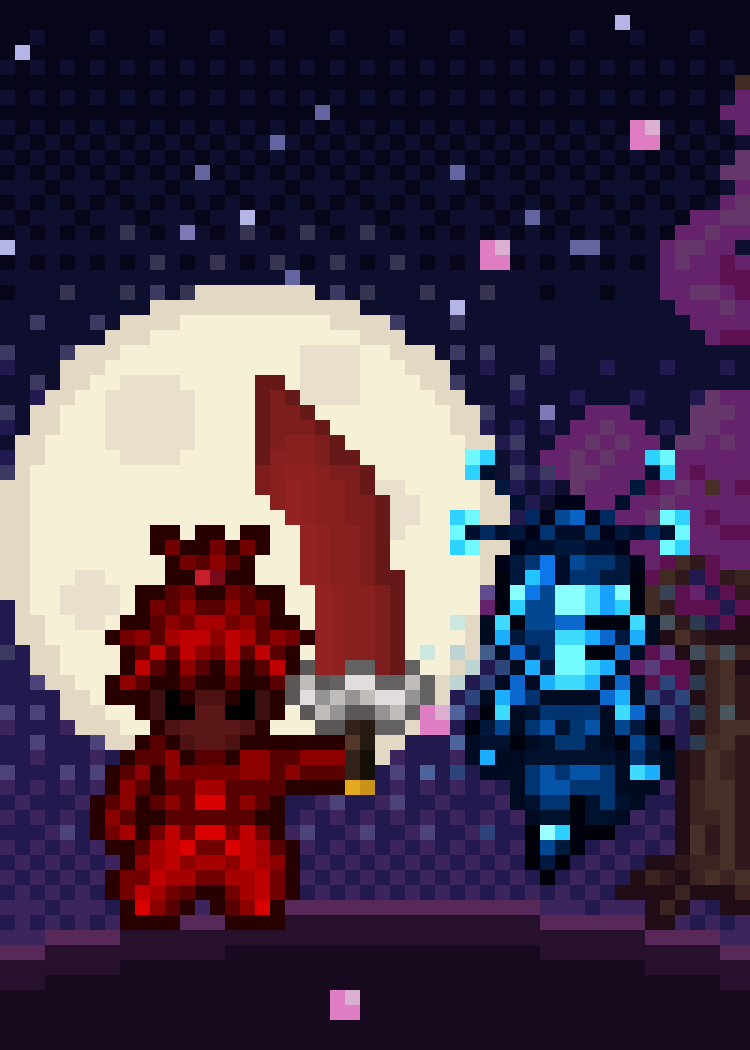
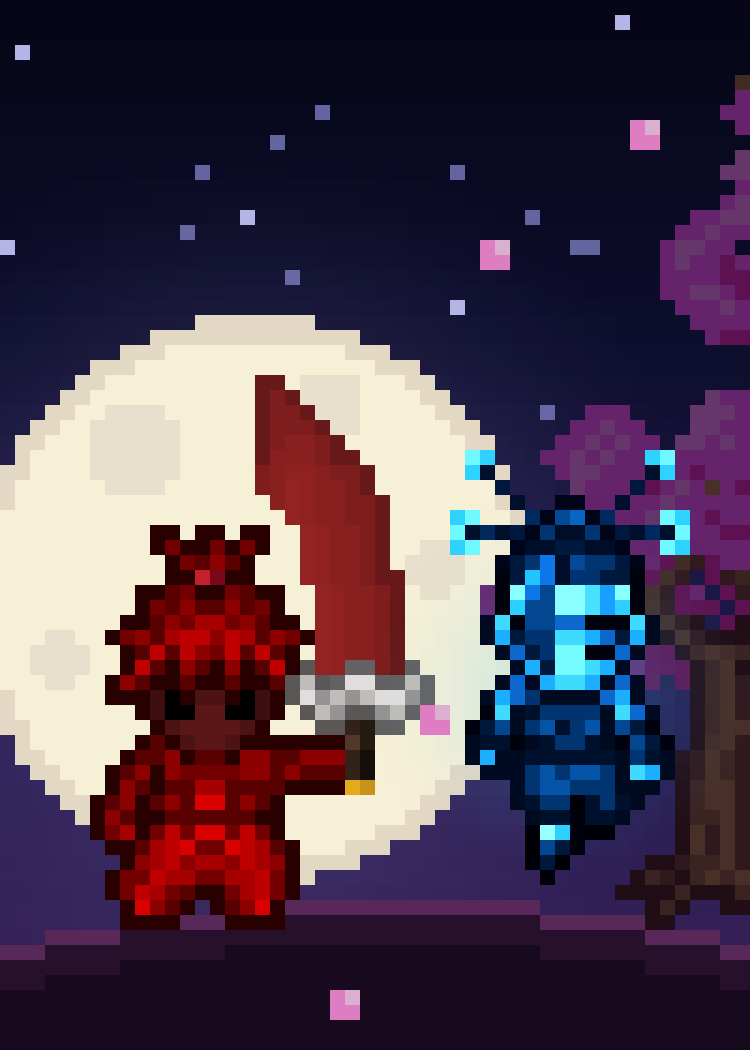
Sleeve-Entwürfe Runde 3b: Zwischenstand der laufenden Blöcke
Claude-Session: https://claude.ai/code/session_01TEnvTzH2xD44R6Unjv7vDo

diff --git a/data/sleeve-proposals/runde3/generator/s44_dragon_hoard.py b/data/sleeve-proposals/runde3/generator/s44_dragon_hoard.py
@@ -23,32 +23,23 @@ cv = Canvas(W2, H2)
 gro = layer(B, 1081)[75:315, 39:359, :3]
 
 
-def dglow(col, cx, cy, r, amt, y1=H2, sy=1.0):
-    """Lichtschein im 3×-Raster gedithert"""
-    for by in range(max(0, (cy - r) // K), min(y1, cy + r) // K + 1):
-        for bx in range(max(0, (cx - r) // K), min(W2, cx + r) // K + 1):
-            d = math.hypot(bx * K + 1 - cx, (by * K + 1 - cy) * sy) / r
-            a = max(0.0, 1 - d) * amt
-            q = math.floor(a * 4 + BAYER4[by % 4, bx % 4]) / 4
-            if q > 0:
-                y0, x0 = by * K, bx * K
-                sub = cv.a[y0:y0 + K, x0:x0 + K].astype(float)
-                cv.a[y0:y0 + K, x0:x0 + K] = (sub * (1 - q) + np.array(col) * q).astype(np.uint8)
+def dglow(col, cx, cy, r, amt, sy=1.0):
+    """Lichtschein, fein gedithert (wie der Himmel in 13/34)"""
+    dither_blend(cv, col, lambda x, y: max(0.0, 1 - math.hypot(x - cx, (y - cy) * sy) / r) * amt,
+                 x0=cx - r, y0=int(cy - r / sy), x1=cx + r, y1=int(cy + r / sy))
 
 
 # ---------------------------------------------------------------- Ziegelwand (3×), im Dunkeln
 brick = gro[80:110, 210:254]
 wall = mirror_tile(brick, W2 // K + 2, H2 // K + 2, ox=4)
 cv.a[:] = up(rgba(wall), K)[:H2, :W2, :3]
-cv.a[:] = hsv_shift(rgba(cv.a), 0, 0.6, 0.3)[..., :3]
-# nach oben ins Schwarze
-for by in range(0, 60):
-    t = 1 - by / 60
-    for bx in range(W2 // K + 1):
-        if t * 1.1 > BAYER4[by % 4, bx % 4]:
-            cv.rect(bx * K, by * K, bx * K + K, by * K + K, (10, 6, 4))
+cv.a[:] = hsv_shift(rgba(cv.a), 0, 0.6, 0.5)[..., :3]
+# nach oben ins Dunkle: Abdunkelung in Stufen je Ziegelreihe-Drittel (3er-Bänder, kein Raster-Muster)
+for by in range(H2 // K + 1):
+    f = min(1.0, 0.18 + 0.82 * (by * K / 230) ** 1.4)
+    cv.a[by * K:by * K + K] = (cv.a[by * K:by * K + K] * f).astype(np.uint8)
 
-EGX, EGY = 125, 200
+EGX, EGY = 125, 190
 dglow((255, 160, 40), EGX, EGY, 150, 0.55, sy=0.9)
 
 # ---------------------------------------------------------------- Schätze
@@ -64,21 +55,21 @@ for n, s in dict(egg=egg, mimic=mimic, heap=heap, chest=chest).items():
 
 H3 = up(heap, K)                                    # 357×105
 # hinterer Goldberg (etwas dunkler), Ei, Goldberg davor, vorderer Goldberg
-cv.paste(darken(H3, 0.8), (W2 - H3.shape[1]) // 2 + 20, 262 - H3.shape[0])
+cv.paste(darken(H3, 0.75), (W2 - H3.shape[1]) // 2 + 20, 180)
 E = up(egg, K)
-ex, ey = EGX - E.shape[1] // 2, 272 - E.shape[0]
+ex, ey = EGX - E.shape[1] // 2, 262 - E.shape[0]
 cv.paste(E, ex, ey)
 c3 = up(chest, K)
-cv.paste(silhouette(c3, (30, 12, 0)), 14 + K, 268 - c3.shape[0] + K, alpha=0.5)
-cv.paste(c3, 14, 268 - c3.shape[0])
+cv.paste(silhouette(c3, (30, 12, 0)), 12 + K, 262 - c3.shape[0] + K, alpha=0.5)
+cv.paste(c3, 12, 262 - c3.shape[0])
 m3 = up(mimic, K)
-cv.paste(silhouette(m3, (30, 12, 0)), 186 + K, 262 - m3.shape[0] + K, alpha=0.5)
-cv.paste(m3, 186, 262 - m3.shape[0])
-cv.paste(flip(H3), (W2 - H3.shape[1]) // 2 - 30, 300 - H3.shape[0] + 26)    # bettet Ei, Truhe, Mimic ein
+cv.paste(silhouette(m3, (30, 12, 0)), 184 + K, 258 - m3.shape[0] + K, alpha=0.5)
+cv.paste(m3, 184, 258 - m3.shape[0])
+cv.paste(flip(H3), (W2 - H3.shape[1]) // 2 - 30, 240)    # bettet Ei, Truhe, Mimic ein
 cv.paste(H3, (W2 - H3.shape[1]) // 2 + 6, H2 + 30 - H3.shape[0])             # vorderer Haufen, unten angeschnitten
 
 # Edelsteine (3×) vorn, jeder mit farbigem Schein
-spots = [(40, 318), (92, 338), (150, 322), (206, 336), (238, 300)]
+spots = [(28, 326), (78, 344), (132, 330), (184, 344), (230, 328)]
 for col, (gx, gy) in zip(glows, spots):
     dglow(col, gx, gy - 18, 34, 0.7)
 for g, (gx, gy) in zip(gems, spots):

diff --git a/data/sleeve-proposals/runde3/generator/s55_zwei_schnitterinnen.py b/data/sleeve-proposals/runde3/generator/s55_zwei_schnitterinnen.py
@@ -6,12 +6,13 @@ farbigen Lichtsäulen der Fenster.
 
 Quellen (MotiveBoons.xcf):
   - Ebene 62 „Ebene #12“: Kathedralen-Innenraum mit Orgel, Altar, rotem Läufer und Lichtsäulen
-    (Hintergrund der Karte „Lizbeth, the Reaper of the Light“), Ausschnitt Mittelschiff
+    (Hintergrund der Karte „Lizbeth, the Reaper of the Light“), Ausschnitt Mittelschiff; die kleine eingebackene
+    Nebenfigur neben dem Altar ist durch Spiegeln der linken Altarseite entfernt
   - Ebene 60 „Ebene #13“ + 59 „Ebene #15“: Lizbeth mit goldener Sense (Szene „Sichtbar #4“; Regel B:
     Figur + Sense vollständig; die weißen Funkenstriche der Sense-Ebene sind in der Szene nicht sichtbar und
     werden weggelassen – es bleiben genau die in der Szene sichtbaren Sense-Pixel)
   - Ebene 57 „Ebene #16“: dunkle Schnitterin mit roter Sense (Szenen „Sichtbar #5–#7“; vollständig)
-Skalierung: Kathedrale 2× (Hintergrund, weit hinten), beide Schnitterinnen 4× (Vordergrund, stehen am unteren
+Skalierung: Kathedrale 2× (Hintergrund, weit hinten), beide Schnitterinnen 5× (Vordergrund, stehen am unteren
 Bildrand auf dem Läufer, überdecken Altar und Bänke) – wie Vampir/Schloss in „Count of the Deep“.
 """
 from common import *
@@ -19,7 +20,7 @@ from e_util import upcanvas, small_canvas, trim_
 import numpy as np
 
 B = 'MotiveBoons'
-K = 4                                               # Pixelgröße der Schnitterinnen
+K = 5                                               # Pixelgröße der Schnitterinnen
 
 
 def lizbeth():
@@ -43,7 +44,11 @@ def lizbeth():
 def build():
     bg = small_canvas(2)                            # 125×175
     a = layer(B, 62); b = bbox(a)
-    cath = a[b[1]:b[3], b[0]:b[2], :3]              # 240×320
+    cath = a[b[1]:b[3], b[0]:b[2], :3].copy()       # 240×320
+    # die im Hintergrund eingebackene Nebenfigur rechts neben dem Altar entfernen: Spalten 177–192 aus der
+    # spiegelbildlichen linken Altarseite (Achse x = 160) übernehmen – Läufer/Lichtschein sind dort symmetrisch
+    for x in range(177, 193):
+        cath[100:131, x] = cath[100:131, 320 - x]
     bg.a[:] = cath[0:175, 98:223]
     # Innenraum abdunkeln (reine Farbmultiplikation, kein Dithering → ruhiger Hintergrund)
     H, W = bg.a.shape[:2]
@@ -56,8 +61,8 @@ def build():
     # (gespiegelt, Sense nach außen rechts); die beiden Sensenstiele stehen innen nebeneinander.
     D = up(compose(B, [57]), K)
     L = up(flip(lizbeth()), K)
-    cv.paste(D, 125 - D.shape[1] - 4, 348 - D.shape[0])
-    cv.paste(L, 125 + 4, 348 - L.shape[0])
+    cv.paste(D, 125 - D.shape[1] - 3, 352 - D.shape[0])
+    cv.paste(L, 125 + 3, 352 - L.shape[0])
     return cv
 
 

diff --git a/data/sleeve-proposals/runde3/generator/s05_idej_mondduell.py b/data/sleeve-proposals/runde3/generator/s05_idej_mondduell.py
@@ -31,14 +31,14 @@ petals = [q for q in parts(sprite('a05_petals', B, [52]), dil=0) if 2 <= q.shape
 print(nob.shape, shog.shape, [t.shape for t in trees])
 
 # --- Nachthimmel + Sterne ---------------------------------------------------------------------------------
-vgrad(lo, 0, H_, [(6, 6, 24), (14, 14, 46), (34, 26, 78), (60, 36, 92)])
+sgrad(lo, 0, H_, [(6, 6, 24), (14, 14, 46), (34, 26, 78), (60, 36, 92)])
 rng = np.random.RandomState(5)
 for _ in range(22):
     lo.px(rng.randint(0, W_), rng.randint(0, 40), (180, 180, 230) if rng.rand() < .4 else (100, 100, 160))
 
 # --- Vollmond (hinter Nobunakin) ---------------------------------------------------------------------------
-MX, MY, MR = 17, 36, 17
-glow(lo, MX, MY, MR * 1.6, (200, 190, 255), 0.28)
+MX, MY, MR = 17, 40, 19
+sglow(lo, MX, MY, MR * 1.7, (190, 180, 255), 0.3)
 for y in range(MY - MR, MY + MR):
     for x in range(MX - MR, MX + MR):
         d = math.hypot(x + .5 - MX, y + .5 - MY)
@@ -47,7 +47,7 @@ for y in range(MY - MR, MY + MR):
             if d > MR - 1.6: c = (226, 216, 196)
             lo.a[y, x] = c
 # Mondflecken (Mare) als ruhige Flächen
-for (cx, cy, r) in [(10, 28, 3.5), (22, 25, 2.5), (26, 34, 2), (6, 40, 2)]:
+for (cx, cy, r) in [(9, 30, 3.5), (22, 27, 2.5), (29, 38, 2), (4, 44, 2)]:
     for y in range(int(cy - r), int(cy + r) + 1):
         for x in range(int(cx - r), int(cx + r) + 1):
             if math.hypot(x + .5 - cx, y + .5 - cy) < r: lo.a[y, x] = (232, 224, 204)
@@ -71,7 +71,7 @@ ny = GY + int(round(((NX - 25) / 25.0) ** 2 * 3))
 lo.paste(nob, NX - 7, ny - nob.shape[0] + 1)
 SXc = 38
 sy = GY + int(round(((SXc - 25) / 25.0) ** 2 * 3))
-glow(lo, SXc, sy - 15, 13, (80, 200, 255), 0.35)
+sglow(lo, SXc, sy - 15, 13, (80, 200, 255), 0.35)
 lo.paste(shog, SXc - shog.shape[1] // 2, sy - shog.shape[0] - 2)   # schwebt über dem Kamm
 
 # Blütenblätter im Wind

diff --git a/data/sleeve-proposals/runde3/generator/a_util.py b/data/sleeve-proposals/runde3/generator/a_util.py
@@ -113,3 +113,25 @@ def rim_light(s, col, dx, dy, t=0.55):
     sel = (ys[empty], xs[empty])
     out[sel[0], sel[1], :3] = (out[sel[0], sel[1], :3] * (1 - t) + np.array(col) * t).astype(np.uint8)
     return out
+
+
+def sgrad(cv, y0, y1, stops, x0=0, x1=None):
+    """Senkrechter Verlauf ohne Dithering (jede Rasterzeile eine Farbe) – für grobe Raster (4×/5×)."""
+    x1 = cv.w if x1 is None else x1
+    n = len(stops) - 1
+    for y in range(max(0, y0), min(cv.h, y1)):
+        t = (y - y0) / max(1, (y1 - y0 - 1)) * n
+        i = min(int(t), n - 1); f = t - i
+        c = np.array(stops[i]) * (1 - f) + np.array(stops[i + 1]) * f
+        cv.a[y, max(0, x0):min(cv.w, x1)] = c.astype(np.uint8)
+
+
+def sglow(cv, cx, cy, r, col, strength=0.4):
+    """Lichthof ohne Dithering: jede Rasterzelle wird einheitlich zur Lichtfarbe gemischt."""
+    col = np.array(col, float)
+    for y in range(max(0, int(cy - r)), min(cv.h, int(cy + r) + 1)):
+        for x in range(max(0, int(cx - r)), min(cv.w, int(cx + r) + 1)):
+            d = math.hypot(x + 0.5 - cx, y + 0.5 - cy) / r
+            if d < 1:
+                t = (1 - d) ** 1.5 * strength
+                cv.a[y, x] = (cv.a[y, x] * (1 - t) + col * t).astype(np.uint8)
